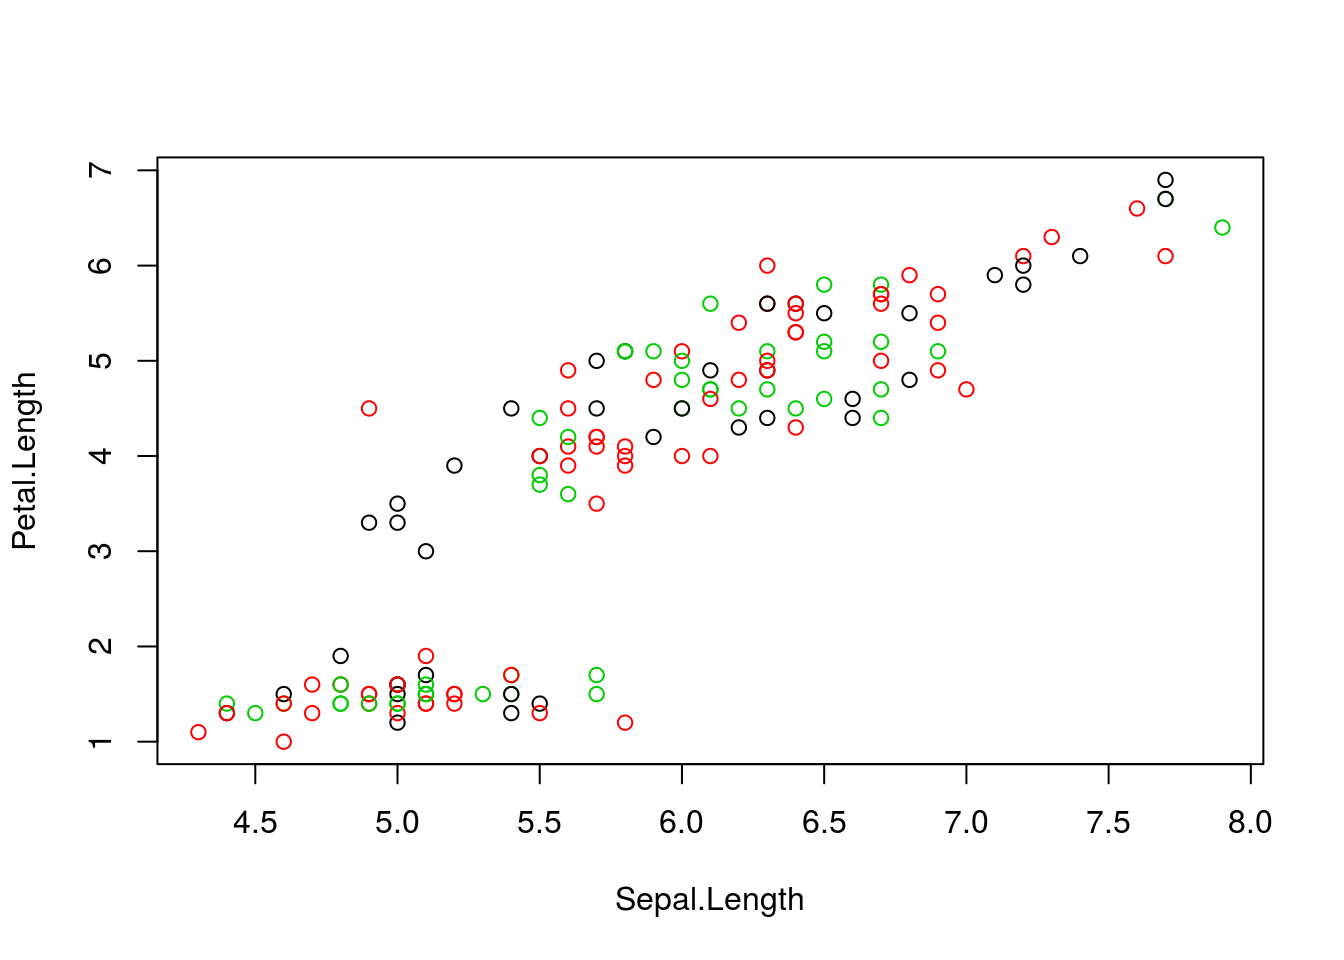
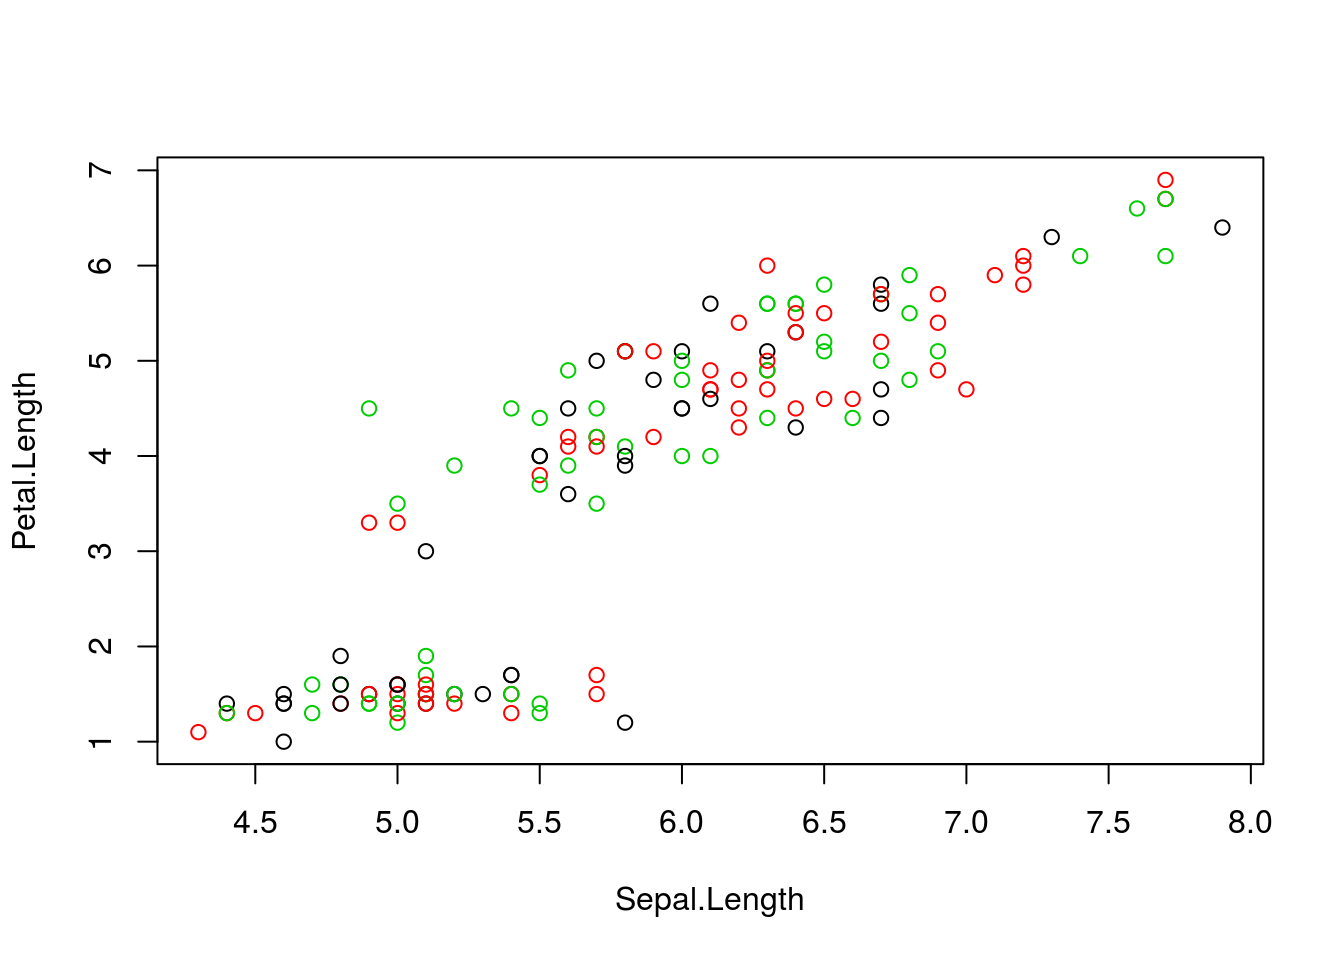
setting seed

diff --git a/docs/unsupervised-learning.html b/docs/unsupervised-learning.html
@@ -268,7 +268,8 @@ cl &lt;-<span class="st"> </span><span class="kw">kmeans</span>(x, <span class="
 <div id="how-does-k-means-work" class="section level3">
 <h3><span class="header-section-number">4.2.1</span> How does k-means work</h3>
 <p><strong>Initialisation</strong>: randomly assign class membership</p>
-<div class="sourceCode"><pre class="sourceCode r"><code class="sourceCode r">init &lt;-<span class="st"> </span><span class="kw">sample</span>(<span class="dv">3</span>, <span class="kw">nrow</span>(x), <span class="dt">replace =</span> <span class="ot">TRUE</span>)
+<div class="sourceCode"><pre class="sourceCode r"><code class="sourceCode r"><span class="kw">set.seed</span>(<span class="dv">12</span>)
+init &lt;-<span class="st"> </span><span class="kw">sample</span>(<span class="dv">3</span>, <span class="kw">nrow</span>(x), <span class="dt">replace =</span> <span class="ot">TRUE</span>)
 <span class="kw">plot</span>(x, <span class="dt">col =</span> init)</code></pre></div>
 <div class="figure">
 <img src="IntroMachineLearningWithR_files/figure-html/kmworks_init-1.png" alt="k-mean random intialisation" width="672" />
@@ -327,17 +328,17 @@ cl2 &lt;-<span class="st"> </span><span class="kw">kmeans</span>(x, <span class=
 <span class="kw">table</span>(cl1<span class="op">$</span>cluster, cl2<span class="op">$</span>cluster)</code></pre></div>
 <pre><code>##    
 ##      1  2  3
-##   1  0  0 58
-##   2  0 51  0
-##   3 41  0  0</code></pre>
+##   1 58  0  0
+##   2  0 41  0
+##   3  0  0 51</code></pre>
 <div class="sourceCode"><pre class="sourceCode r"><code class="sourceCode r">cl1 &lt;-<span class="st"> </span><span class="kw">kmeans</span>(x, <span class="dt">centers =</span> <span class="dv">3</span>, <span class="dt">nstart =</span> <span class="dv">1</span>)
 cl2 &lt;-<span class="st"> </span><span class="kw">kmeans</span>(x, <span class="dt">centers =</span> <span class="dv">3</span>, <span class="dt">nstart =</span> <span class="dv">1</span>)
 <span class="kw">table</span>(cl1<span class="op">$</span>cluster, cl2<span class="op">$</span>cluster)</code></pre></div>
 <pre><code>##    
 ##      1  2  3
-##   1 51  0  0
-##   2  0  0 58
-##   3  0 41  0</code></pre>
+##   1  0  0 41
+##   2  0 51  0
+##   3 58  0  0</code></pre>
 <div class="sourceCode"><pre class="sourceCode r"><code class="sourceCode r"><span class="kw">set.seed</span>(<span class="dv">42</span>)
 xr &lt;-<span class="st"> </span><span class="kw">matrix</span>(<span class="kw">rnorm</span>(<span class="kw">prod</span>(<span class="kw">dim</span>(x))), <span class="dt">ncol =</span> <span class="kw">ncol</span>(x))
 cl1 &lt;-<span class="st"> </span><span class="kw">kmeans</span>(xr, <span class="dt">centers =</span> <span class="dv">3</span>, <span class="dt">nstart =</span> <span class="dv">1</span>)
